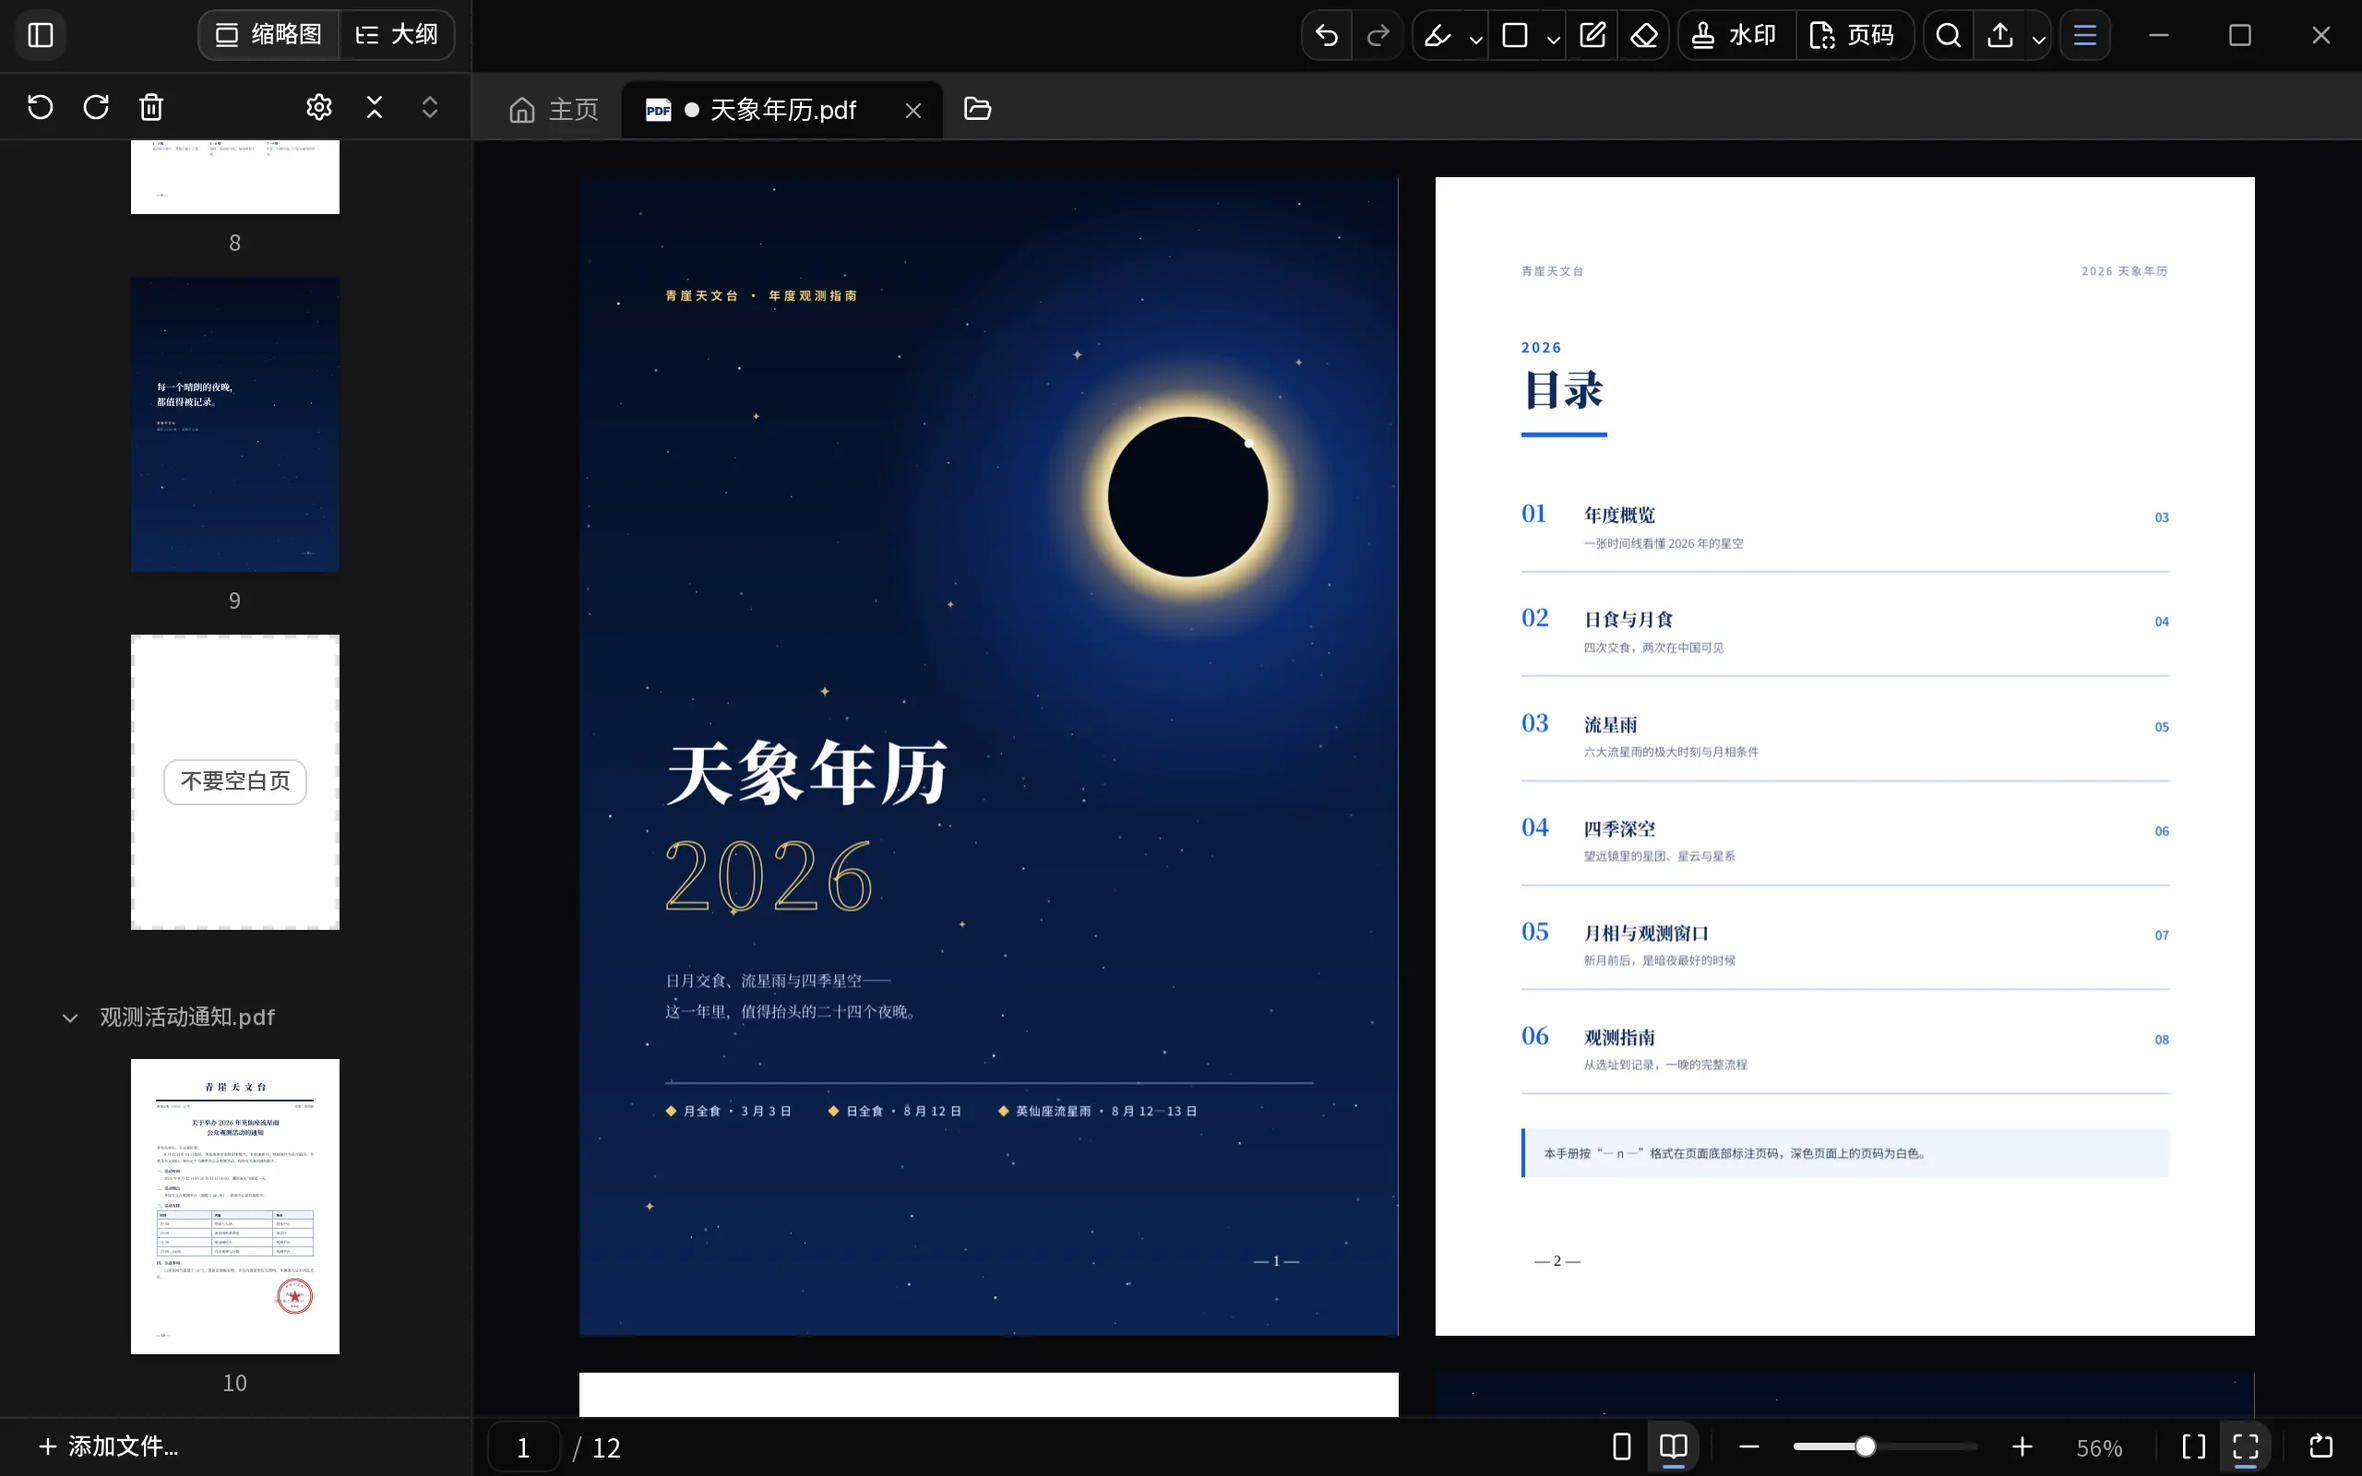
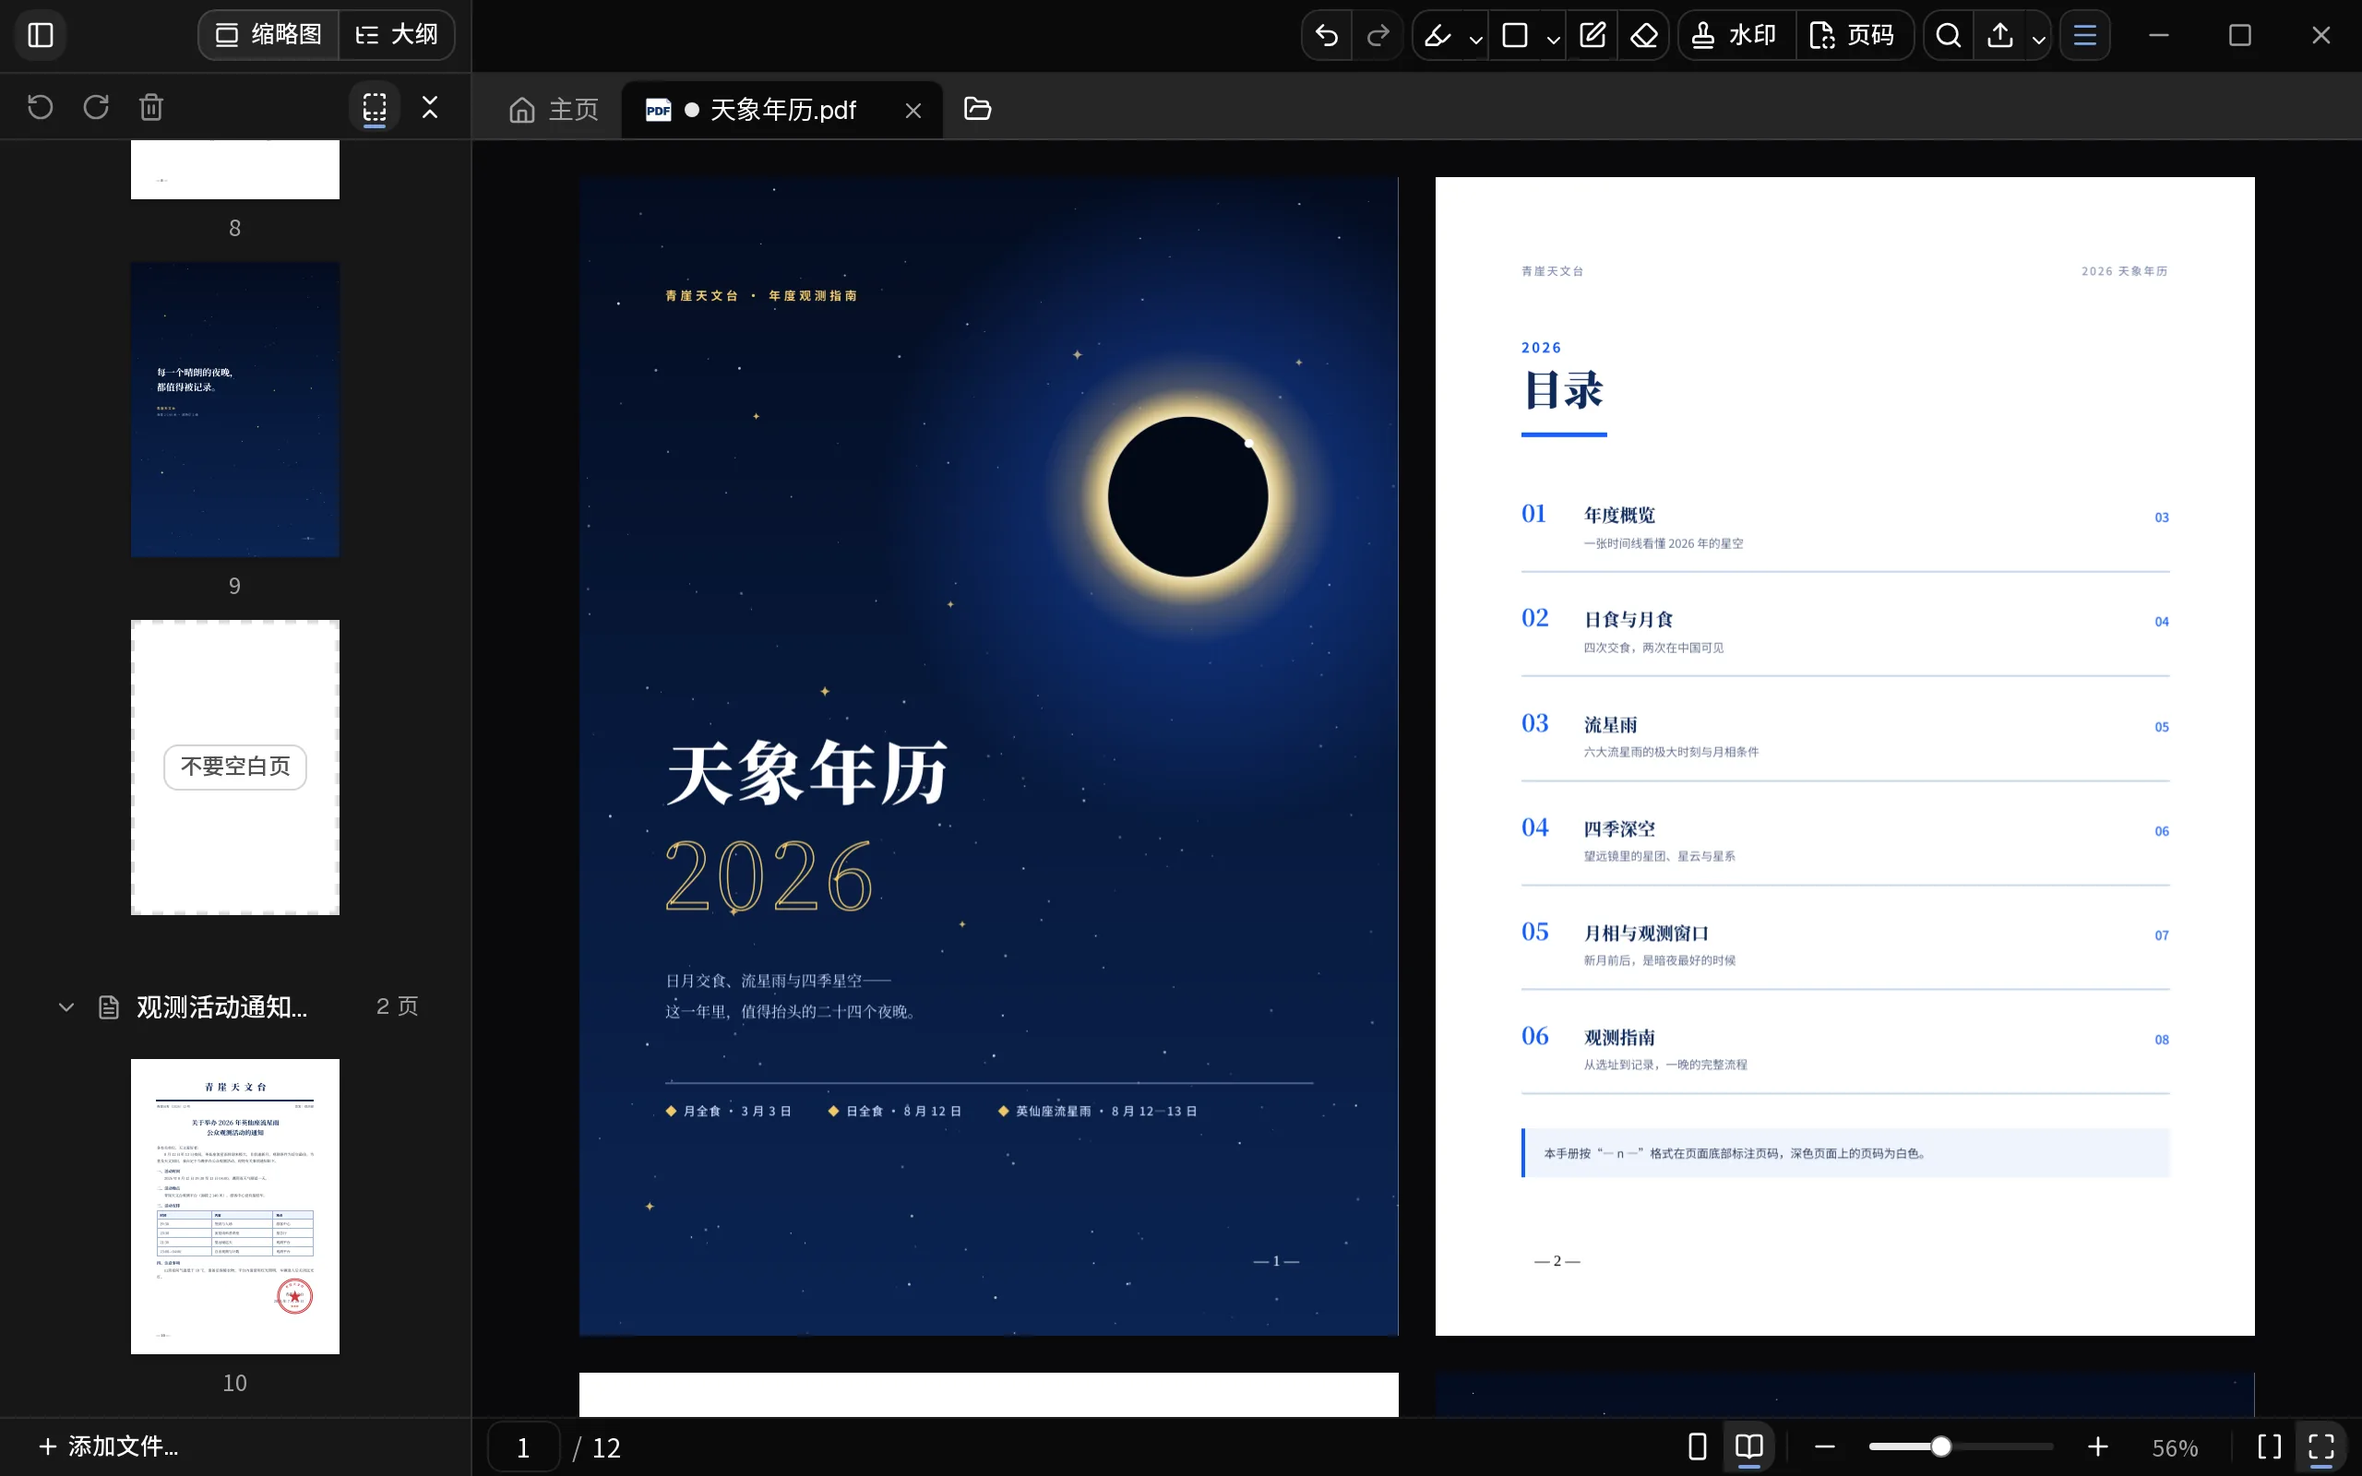
chore(site): sync the landing page with v0.1.31
- Re-shoot the screenshots for the 0.1.31 sidebar: outline-style file rows, one fold button, the odd-page toggle in place of the file options menu, no rotate button in the status bar
- Say files move whole and pages only within their own file, and show each page's own turn and delete bar
- Set the no-JS fallback version and download links to 0.1.31

diff --git a/index.html b/index.html
@@ -1199,8 +1199,8 @@ html[data-lang="en"] .open h2 { letter-spacing: -0.03em; }
       </h1>
       <div class="hero-side">
         <p class="hero-sub">
-          <span lang="zh-CN">轻巧、快速、占内存少。读、标、改、拼都在同一个界面里：一份文档可以装下好几个文件，页面拖到哪儿就排到哪儿。</span>
-          <span lang="en">Light, fast and easy on memory. Read, mark up, rearrange and combine in one window: a document can hold several files, and pages go wherever you drag them.</span>
+          <span lang="zh-CN">轻巧、快速、占内存少。读、标、改、拼都在同一个界面里：一份文档可以装下好几个文件，页面、文件拖一下就排好。</span>
+          <span lang="en">Light, fast and easy on memory. Read, mark up, rearrange and combine in one window: a document can hold several files, and a drag puts pages and files in order.</span>
         </p>
         <div class="cta-row">
           <a class="btn btn-primary js-download" href="#download">
@@ -1210,8 +1210,8 @@ html[data-lang="en"] .open h2 { letter-spacing: -0.03em; }
           <a class="btn btn-quiet" href="#download"><span lang="zh-CN">其他平台</span><span lang="en">Other platforms</span></a>
         </div>
         <p class="hero-meta">
-          <span lang="zh-CN">版本 <span class="js-version">0.1.29</span>，MIT 开源，免费使用。支持 Windows、macOS 与 Linux。</span>
-          <span lang="en">Version <span class="js-version">0.1.29</span>. Free and open source under MIT, for Windows, macOS and Linux.</span>
+          <span lang="zh-CN">版本 <span class="js-version">0.1.31</span>，MIT 开源，免费使用。支持 Windows、macOS 与 Linux。</span>
+          <span lang="en">Version <span class="js-version">0.1.31</span>. Free and open source under MIT, for Windows, macOS and Linux.</span>
         </p>
       </div>
     </div>
@@ -1357,7 +1357,8 @@ html[data-lang="en"] .open h2 { letter-spacing: -0.03em; }
             <p><span lang="zh-CN">把侧栏拉宽，缩略图就排成一张页面网格。</span><span lang="en">Widen the sidebar and the thumbnails become a grid of pages.</span></p>
             <ul class="ticks">
               <li><span lang="zh-CN">页面拖到哪儿就排到哪儿，可以一次拖多页</span><span lang="en">Drag pages where you want them, several at a time</span></li>
-              <li><span lang="zh-CN">勾选后旋转、删除、剪切、复制、粘贴，或在前后插入空白页</span><span lang="en">Tick pages to rotate, delete, cut, copy and paste them, or insert a blank before or after</span></li>
+              <li><span lang="zh-CN">指向一页，它自己的小工具条就能单独旋转、删除这一页</span><span lang="en">Point at a page and its own bar turns or deletes that page alone</span></li>
+              <li><span lang="zh-CN">勾选几页，一起旋转、删除、剪切、复制、粘贴，或在前后插入空白页</span><span lang="en">Tick pages to rotate, delete, cut, copy and paste them together, or insert a blank before or after</span></li>
               <li><span lang="zh-CN">页面可以拖进另一个标签页，也可以在别的文档里粘贴</span><span lang="en">Drag pages into another tab, or paste them into another document</span></li>
               <li><span lang="zh-CN">拖到标签栏上，直接用这几页新建一份 PDF</span><span lang="en">Drop them on the tab strip to start a new PDF from those pages</span></li>
             </ul>
@@ -1374,8 +1375,8 @@ html[data-lang="en"] .open h2 { letter-spacing: -0.03em; }
           <img lang="en" src="assets/en/mark.webp" width="2560" height="1600" loading="lazy" alt="Marks on the meteor showers page: a translucent box over the Perseids row, a highlighted sentence and a blue note beside the title; the sidebar shows the outline, grouped by file">
         </figure>
         <figure data-chapter-shot="pages">
-          <img lang="zh-CN" src="assets/zh/pages.webp" width="2560" height="1600" loading="lazy" alt="拉宽的侧栏把页面排成三列网格，第 3、4、6 页被勾选">
-          <img lang="en" src="assets/en/pages.webp" width="2560" height="1600" loading="lazy" alt="The widened sidebar lays the pages out in three columns, with pages 3, 4 and 6 ticked">
+          <img lang="zh-CN" src="assets/zh/pages.webp" width="2560" height="1600" loading="lazy" alt="拉宽的侧栏把页面排成三列网格，第 3、4、6 页被勾选，指向的第 5 页底部露出它自己的旋转、删除按钮">
+          <img lang="en" src="assets/en/pages.webp" width="2560" height="1600" loading="lazy" alt="The widened sidebar lays the pages out in three columns, with pages 3, 4 and 6 ticked and page 5, under the pointer, showing its own turn and delete buttons">
         </figure>
       </div>
     </div>
@@ -1447,14 +1448,14 @@ html[data-lang="en"] .open h2 { letter-spacing: -0.03em; }
     <div class="combine-grid">
       <ul class="ticks">
         <li><span lang="zh-CN">文件按名字分组，可以折叠、改名、整份拖动或移除</span><span lang="en">Files are grouped by name: fold, rename, move or remove one whole</span></li>
-        <li><span lang="zh-CN">页面可以在文件之间拖动，落在哪个文件里就归哪个文件</span><span lang="en">Drag pages between files; a page belongs to the file it lands in</span></li>
+        <li><span lang="zh-CN">文件整份移动，页面只在自己的文件里调顺序，哪个文件都不会被拆散</span><span lang="en">Files move whole and pages only within their own file, so no file is ever split apart</span></li>
         <li><span lang="zh-CN">大纲里每个文件一行，它原有的书签收在下面</span><span lang="en">In the outline each file is one entry, with its own bookmarks beneath it</span></li>
         <li><span lang="zh-CN">在主页把几个文件一起拖进侧栏，直接合并成一份新 PDF</span><span lang="en">On the home tab, drop several files on the sidebar to merge them straight into a new PDF</span></li>
         <li><span lang="zh-CN">合并后的文档照样可以压缩、拆分、另存为 A4</span><span lang="en">The combined document can still be compressed, split or saved as A4</span></li>
       </ul>
       <div class="screen">
-        <img lang="zh-CN" src="assets/zh/files.webp" width="2560" height="1600" loading="lazy" alt="侧栏按文件分组显示页面：《天象年历》之后是一张虚线空白页，再往下是“观测活动通知.pdf”；文件选项里可以开关“每个文件从奇数页开始”和“为每个文件加一个书签”">
-        <img lang="en" src="assets/en/files.webp" width="2560" height="1600" loading="lazy" alt="The sidebar shows pages grouped by file: after Sky Almanac comes a dashed blank page, then Observing Notice.pdf; the file options turn “Start every file on an odd page” and “Add a bookmark for each file” on and off">
+        <img lang="zh-CN" src="assets/zh/files.webp" width="2560" height="1600" loading="lazy" alt="侧栏按文件分组显示页面：《天象年历》之后是一张虚线空白页，再往下是“观测活动通知.pdf”；页面上方的“每个文件从奇数页开始”开关已打开">
+        <img lang="en" src="assets/en/files.webp" width="2560" height="1600" loading="lazy" alt="The sidebar shows pages grouped by file: after Sky Almanac comes a dashed blank page, then Observing Notice.pdf; the “Start every file on an odd page” switch above the pages is on">
       </div>
     </div>
   </div>
@@ -1729,8 +1730,8 @@ html[data-lang="en"] .open h2 { letter-spacing: -0.03em; }
     <div class="section-head">
       <h2 id="download-title"><span lang="zh-CN">下载 TFolio</span><span lang="en">Download TFolio</span></h2>
       <p>
-        <span lang="zh-CN">当前版本 <span class="js-version">0.1.29</span>。安装后，TFolio 会在启动时检查更新，有新版本会提示你。</span>
-        <span lang="en">Current version <span class="js-version">0.1.29</span>. Once installed, TFolio checks for updates when it starts and lets you know when a new version is out.</span>
+        <span lang="zh-CN">当前版本 <span class="js-version">0.1.31</span>。安装后，TFolio 会在启动时检查更新，有新版本会提示你。</span>
+        <span lang="en">Current version <span class="js-version">0.1.31</span>. Once installed, TFolio checks for updates when it starts and lets you know when a new version is out.</span>
       </p>
     </div>
     <div class="download-grid">
@@ -1738,25 +1739,25 @@ html[data-lang="en"] .open h2 { letter-spacing: -0.03em; }
         <h3>Windows</h3>
         <p><span lang="zh-CN">Windows 10 与 11，x64</span><span lang="en">Windows 10 and 11, x64</span></p>
         <ul class="files">
-          <li><a data-file="TFolio_{v}_x64-setup.exe" href="https://github.com/roy-tian/TFolio/releases/download/v0.1.29/TFolio_0.1.29_x64-setup.exe"><span lang="zh-CN">安装程序</span><span lang="en">Installer</span> <span class="ext">.exe</span></a></li>
-          <li><a data-file="TFolio_{v}_x64_en-US.msi" href="https://github.com/roy-tian/TFolio/releases/download/v0.1.29/TFolio_0.1.29_x64_en-US.msi"><span lang="zh-CN">MSI 安装包</span><span lang="en">MSI package</span> <span class="ext">.msi</span></a></li>
+          <li><a data-file="TFolio_{v}_x64-setup.exe" href="https://github.com/roy-tian/TFolio/releases/download/v0.1.31/TFolio_0.1.31_x64-setup.exe"><span lang="zh-CN">安装程序</span><span lang="en">Installer</span> <span class="ext">.exe</span></a></li>
+          <li><a data-file="TFolio_{v}_x64_en-US.msi" href="https://github.com/roy-tian/TFolio/releases/download/v0.1.31/TFolio_0.1.31_x64_en-US.msi"><span lang="zh-CN">MSI 安装包</span><span lang="en">MSI package</span> <span class="ext">.msi</span></a></li>
         </ul>
       </div>
       <div class="platform" data-platform="mac">
         <h3>macOS</h3>
         <p><span lang="zh-CN">Apple 芯片与 Intel 处理器</span><span lang="en">Apple silicon and Intel</span></p>
         <ul class="files">
-          <li><a data-file="TFolio_{v}_aarch64.dmg" href="https://github.com/roy-tian/TFolio/releases/download/v0.1.29/TFolio_0.1.29_aarch64.dmg"><span lang="zh-CN">Apple 芯片</span><span lang="en">Apple silicon</span> <span class="ext">.dmg</span></a></li>
-          <li><a data-file="TFolio_{v}_x64.dmg" href="https://github.com/roy-tian/TFolio/releases/download/v0.1.29/TFolio_0.1.29_x64.dmg"><span lang="zh-CN">Intel 处理器</span><span lang="en">Intel</span> <span class="ext">.dmg</span></a></li>
+          <li><a data-file="TFolio_{v}_aarch64.dmg" href="https://github.com/roy-tian/TFolio/releases/download/v0.1.31/TFolio_0.1.31_aarch64.dmg"><span lang="zh-CN">Apple 芯片</span><span lang="en">Apple silicon</span> <span class="ext">.dmg</span></a></li>
+          <li><a data-file="TFolio_{v}_x64.dmg" href="https://github.com/roy-tian/TFolio/releases/download/v0.1.31/TFolio_0.1.31_x64.dmg"><span lang="zh-CN">Intel 处理器</span><span lang="en">Intel</span> <span class="ext">.dmg</span></a></li>
         </ul>
       </div>
       <div class="platform" data-platform="linux">
         <h3>Linux</h3>
         <p><span lang="zh-CN">x64，三种安装格式</span><span lang="en">x64, in three package formats</span></p>
         <ul class="files">
-          <li><a data-file="TFolio_{v}_amd64.deb" href="https://github.com/roy-tian/TFolio/releases/download/v0.1.29/TFolio_0.1.29_amd64.deb">Debian / Ubuntu <span class="ext">.deb</span></a></li>
-          <li><a data-file="TFolio-{v}-1.x86_64.rpm" href="https://github.com/roy-tian/TFolio/releases/download/v0.1.29/TFolio-0.1.29-1.x86_64.rpm">Fedora / openSUSE <span class="ext">.rpm</span></a></li>
-          <li><a data-file="TFolio_{v}_amd64.AppImage" href="https://github.com/roy-tian/TFolio/releases/download/v0.1.29/TFolio_0.1.29_amd64.AppImage"><span lang="zh-CN">免安装</span><span lang="en">Portable</span> <span class="ext">.AppImage</span></a></li>
+          <li><a data-file="TFolio_{v}_amd64.deb" href="https://github.com/roy-tian/TFolio/releases/download/v0.1.31/TFolio_0.1.31_amd64.deb">Debian / Ubuntu <span class="ext">.deb</span></a></li>
+          <li><a data-file="TFolio-{v}-1.x86_64.rpm" href="https://github.com/roy-tian/TFolio/releases/download/v0.1.31/TFolio-0.1.31-1.x86_64.rpm">Fedora / openSUSE <span class="ext">.rpm</span></a></li>
+          <li><a data-file="TFolio_{v}_amd64.AppImage" href="https://github.com/roy-tian/TFolio/releases/download/v0.1.31/TFolio_0.1.31_amd64.AppImage"><span lang="zh-CN">免安装</span><span lang="en">Portable</span> <span class="ext">.AppImage</span></a></li>
         </ul>
       </div>
     </div>
